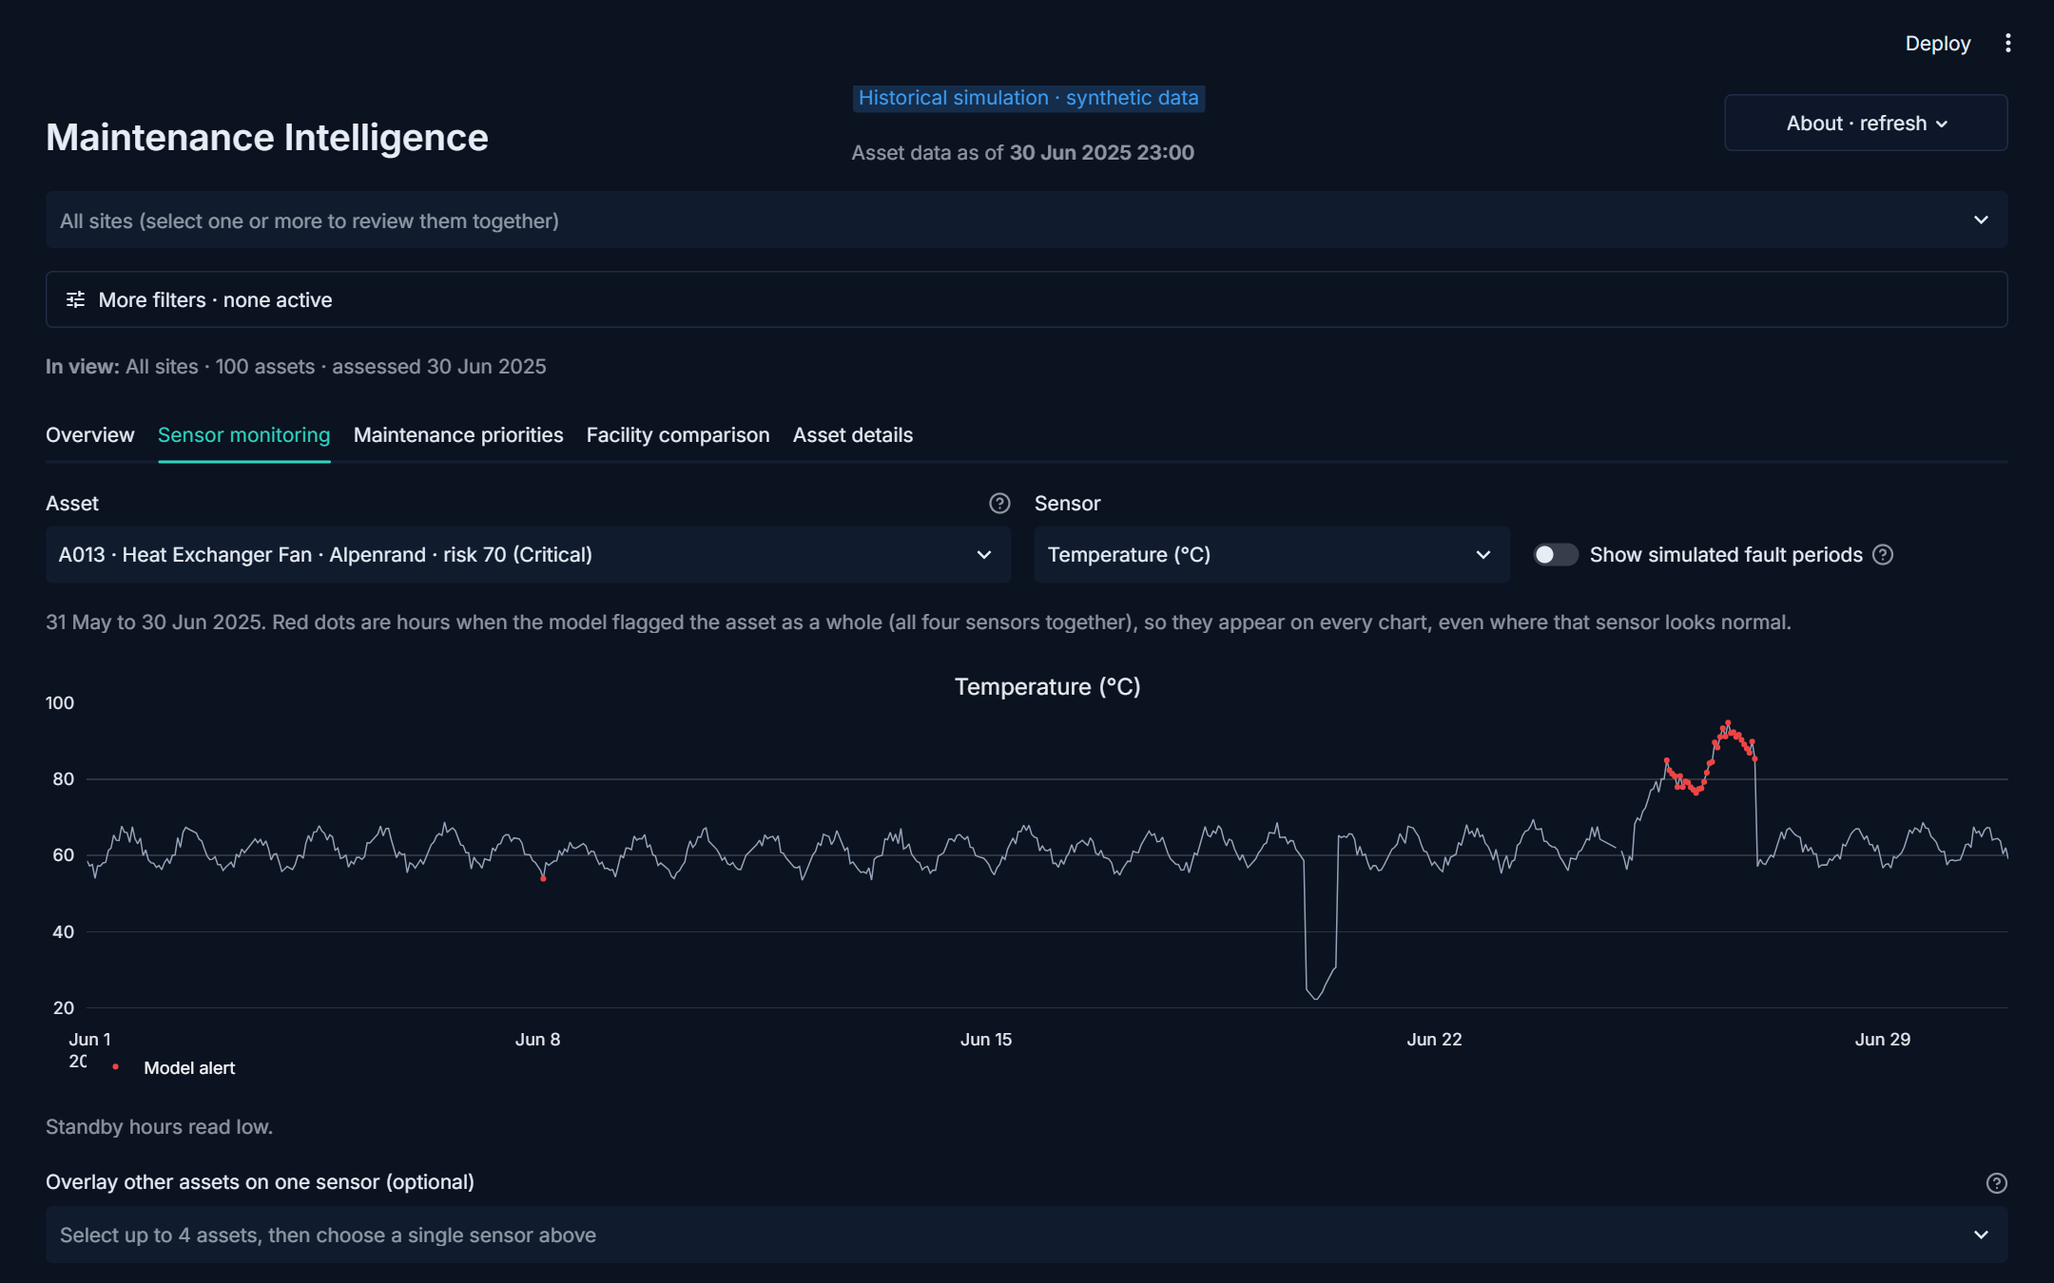
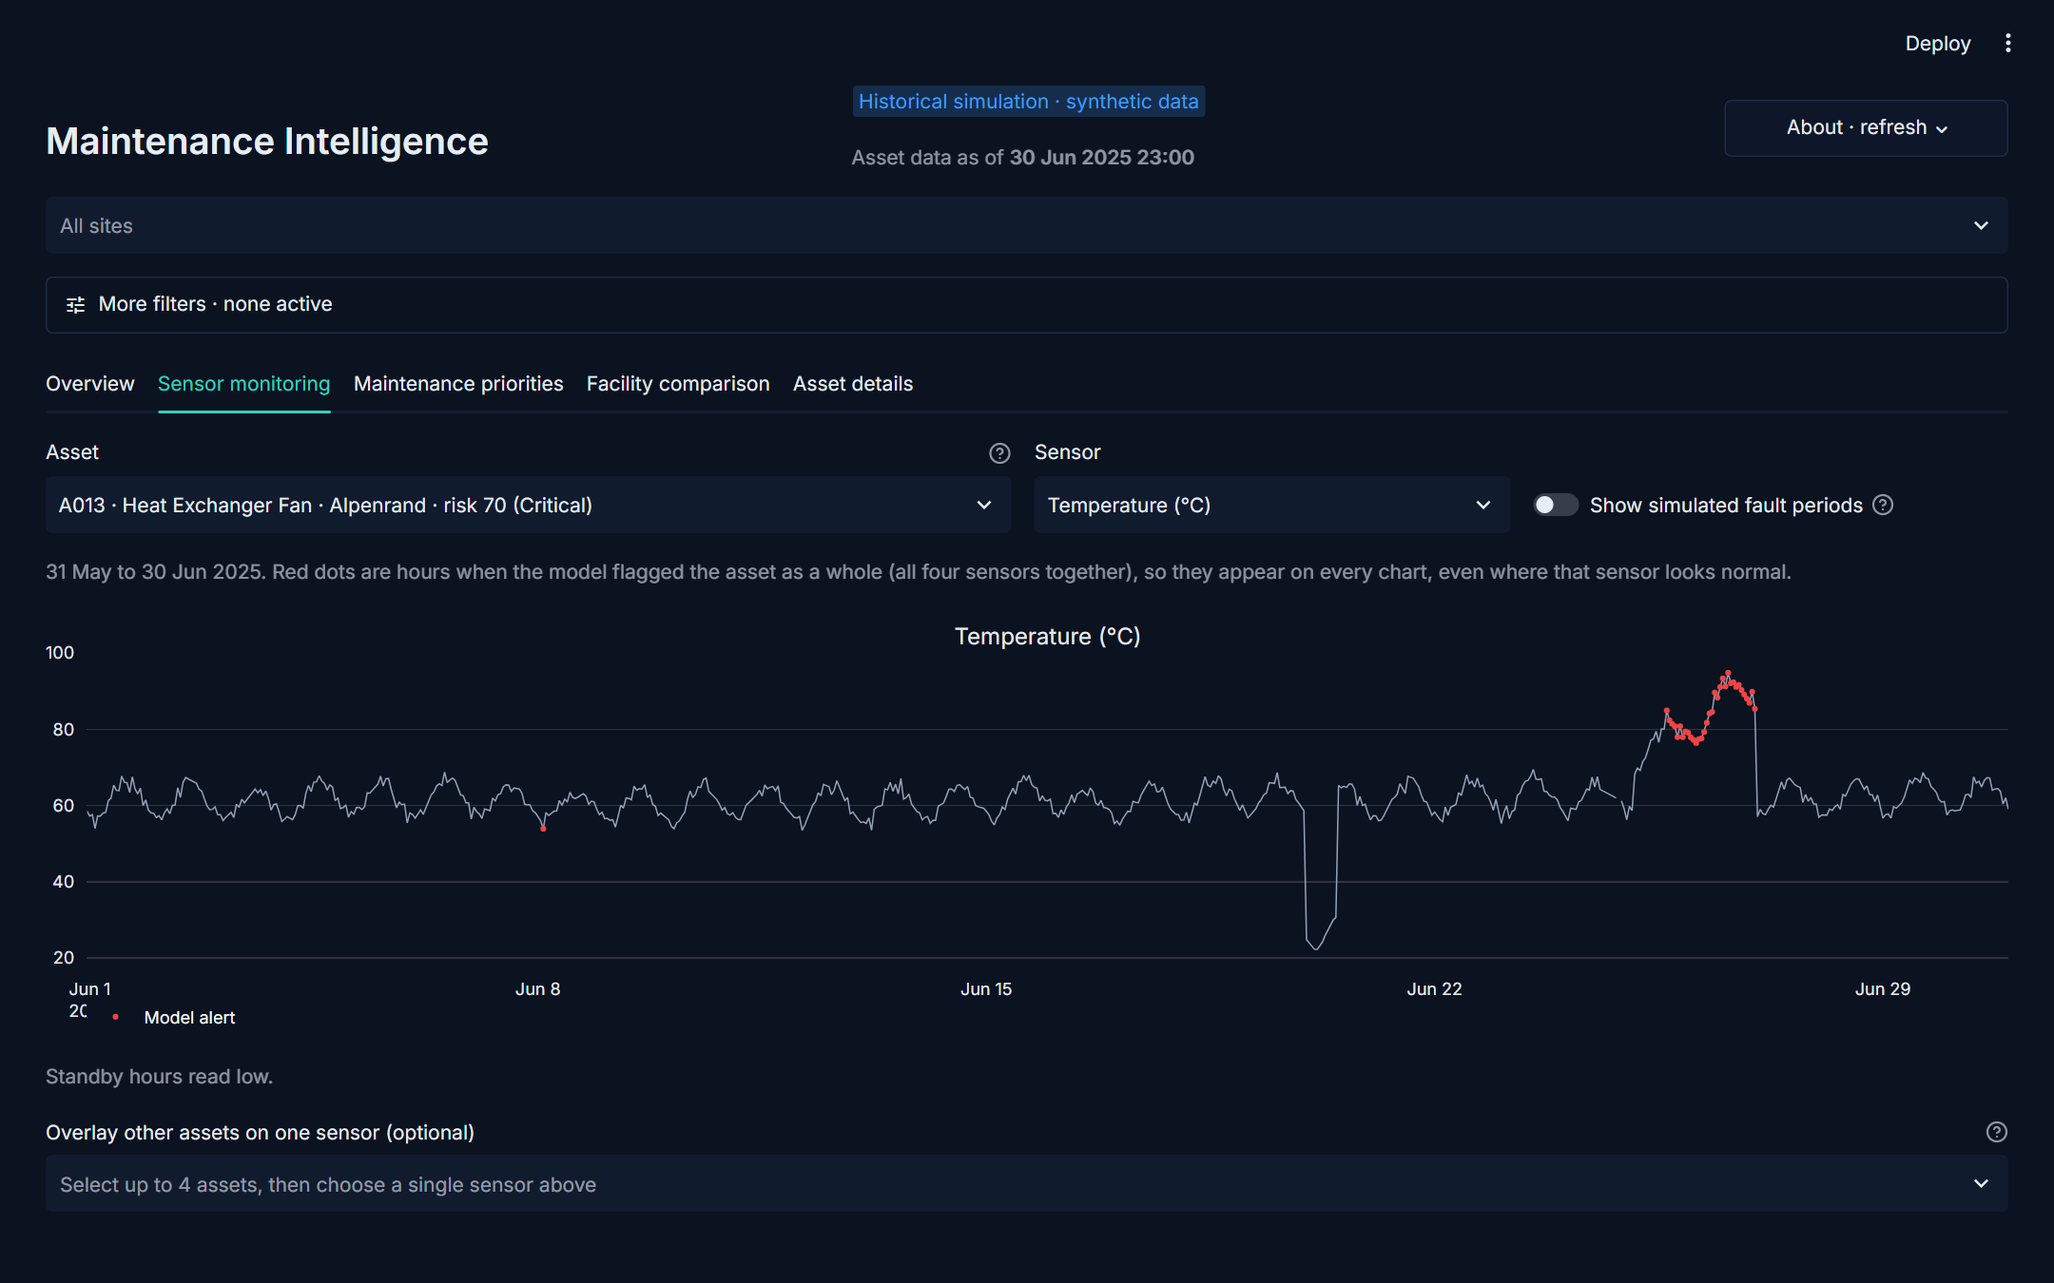
Polish pass: email on cards, condition trend first, muted charts, full screenshot gallery incl. phone

diff --git a/app.py b/app.py
@@ -12,9 +12,9 @@ from mi.data_gen import SENSORS
 from mi.weather import get_current
 
 st.set_page_config("Maintenance Intelligence", ":material/monitoring:", layout="wide", initial_sidebar_state="collapsed")
-st.markdown("<style>.block-container { padding: 2.4rem 2rem 2rem; max-width: 1600px; } .st-key-top1 { border-left: 3px solid #ef4444; } @media (max-width: 768px) { .block-container { padding: 2.2rem .75rem 2rem; } }</style>", unsafe_allow_html=True)  # no native setting for page padding
+st.markdown("<style>.block-container { padding: 2.6rem 2rem 2rem; max-width: 1600px; } .st-key-top1 { border-left: 3px solid #ef4444; } @media (max-width: 768px) { .block-container { padding: 2.2rem .75rem 2rem; } }</style>", unsafe_allow_html=True)  # no native setting for page padding
 pio.templates["mi"] = pio.templates["plotly_dark"]
-pio.templates["mi"].layout.update(paper_bgcolor="rgba(0,0,0,0)", plot_bgcolor="rgba(0,0,0,0)", font_family="Inter",
+pio.templates["mi"].layout.update(paper_bgcolor="rgba(0,0,0,0)", plot_bgcolor="rgba(0,0,0,0)", font_family="Inter", font_size=12,
                                   margin=dict(l=10, r=30, t=40, b=10), title_font_size=14, hovermode="x unified")
 pio.templates["mi"].layout.xaxis.update(showgrid=False)
 pio.templates["mi"].layout.yaxis.update(gridcolor="#233047", zeroline=False)
@@ -43,8 +43,9 @@ R, assets, fac = D["readings"], D["assets"], D["facilities"]
 COLORS = {"Low": "#14b8a6", "Medium": "#f59e0b", "High": "#ef4444"}  # teal / amber / red, always with a text label
 STATUS = {"Low": "Normal", "Medium": "Warning", "High": "Critical"}
 TAG = {"Low": ":green[Normal]", "Medium": ":orange[Warning]", "High": ":red[Critical]"}
+MUTED = {"Low": "#1f6f68", "Medium": "#8f6a22", "High": "#9b3b45"}  # deeper chart colours, same three bands; text on them stays light
 LO, HI = (25 - 15) / 30, (40 - 15) / 30  # Warning / Critical thresholds on the 15-45 colour range
-SCALE = [(0, COLORS["Low"]), (LO, COLORS["Low"]), (LO, COLORS["Medium"]), (HI, COLORS["Medium"]), (HI, COLORS["High"]), (1, COLORS["High"])]  # hard bands, not a blended gradient
+SCALE = [(0, MUTED["Low"]), (LO, MUTED["Low"]), (LO, MUTED["Medium"]), (HI, MUTED["Medium"]), (HI, MUTED["High"]), (1, MUTED["High"])]  # hard bands, not a blended gradient
 LAST = R.timestamp.max()
 H = 330  # standard chart height
 LBL = {"temperature_c": "Temperature (°C)", "vibration_mm_s": "Vibration (mm/s)", "pressure_bar": "Pressure (bar)", "power_kw": "Power (kW)"}
@@ -149,7 +150,7 @@ if "seeded" not in ss:
         pass
 
 # ---- Sites are always visible (empty = all sites; the line under the controls says exactly what is in view)
-fsel = st.multiselect("Sites", list(fac.name), key="fsel", label_visibility="collapsed", placeholder="All sites (select one or more to review them together)") or list(fac.name)
+fsel = st.multiselect("Sites", list(fac.name), key="fsel", label_visibility="collapsed", placeholder="All sites", help="Select one or more sites to review them together.") or list(fac.name)
 if ss.pop("stale_link", False):
     st.info("Some saved selections in this link are no longer available. The view has been updated.")
 n_active = bool(ss.get("tsel")) + (ss.get("period", "30") != "30") + (ss.get("asof", LAST.date()) != LAST.date())
@@ -194,20 +195,40 @@ def fmt_asset(x):
     return f"{x} · {_by_id.asset_type[x]} · {_by_id.facility[x].split()[0]} · risk {_by_id.risk[x]:.0f} ({_by_id.status[x]})"
 
 
-sites_txt = "All sites" if T.facility.nunique() == len(fac) else ", ".join(sorted(T.facility.unique()))
-st.caption(f"**In view:** {sites_txt} · {len(T)} assets · assessed {as_of:%d %b %Y}")
+def share(asset_id):
+    """Ready-made email for one asset: (message text, mailto URL). The link reopens the same sites, filters, window, date and asset."""
+    x = _by_id.loc[asset_id]
+    try:
+        base = st.context.url.split("?")[0]
+    except Exception:  # not available outside a browser session
+        base = ""
+    params = {"tab": "Asset details", "asset": asset_id, "date": str(day)}
+    if len(fsel) < len(fac):
+        params["site"] = fsel
+    if len(tsel) < assets.asset_type.nunique():
+        params["type"] = tsel
+    if period != 30:
+        params["period"] = str(period)
+    link = f"{base}?{urlencode(params, doseq=True)}" if base else ""
+    msg = (f"Asset: {x.asset_name} ({asset_id}), {x.facility}\n"
+           f"Severity: {x.status}, risk {x.risk:.1f}/100" + ("" if pd.isna(x.change) else f" ({x.change:+.1f} pts vs 7 days earlier)") + "\n"
+           f"Why: {x.explanation}\n"
+           f"Assessed: {as_of:%d %b %Y} (synthetic demo data)" + (f"\nOpen this view: {link}" if link else ""))
+    subject = f"{asset_id} {x.asset_type}: {x.status}, risk {x.risk:.0f}"
+    return msg, f"mailto:?subject={quote(subject)}&body={quote(msg.replace(chr(10), chr(13) + chr(10)))}"
+
+
 if ss.pop("asset_notice", False):
     st.info("The asset in this link is not in the current selection, so the highest-risk asset is shown instead.")
 tabs = st.tabs(["Overview", "Sensor monitoring", "Maintenance priorities", "Facility comparison", "Asset details"], key="tab", bind="query-params")
 
 with tabs[0]:
     st.subheader("Inspect next")
-    st.caption("Risk score is a 0 to 100 priority index for ranking inspections. It is not a probability of failure.")
     flagged = T[T.level != "Low"].head(3)  # only assets that actually need attention
     if flagged.empty:
         st.success("No assets are flagged in this view: every asset is Normal (risk 25 or less).")
     for i, (col, r) in enumerate(zip(st.columns(3), flagged.itertuples())):
-        with col.container(border=True, gap="xsmall", key="top1" if i == 0 else None):  # the highest-ranked asset gets a subtle accent edge
+        with col.container(border=True, gap="xxsmall", key="top1" if i == 0 else None):  # the highest-ranked asset gets a subtle accent edge
             top_l, top_r = st.columns([1, 2], vertical_alignment="center")
             top_l.badge(STATUS[r.level], color={"High": "red", "Medium": "orange", "Low": "green"}[r.level])
             top_r.caption(r.facility)
@@ -218,7 +239,10 @@ with tabs[0]:
             left, right = st.columns(2)
             left.markdown(f":gray[Main driver]  \n**{r.driver_label} {r.peak_z:+.1f}σ**")
             right.markdown(f":gray[Hours alerted (last 7 d)]  \n**{r.alert_share:.0%}**")
-            st.button("Investigate", key=f"go_{r.asset_id}", on_click=go, args=(r.asset_id,), icon=":material/arrow_forward:", width="stretch")
+            b_go, b_mail = st.columns([3, 2])
+            b_go.button("Investigate", key=f"go_{r.asset_id}", on_click=go, args=(r.asset_id,), icon=":material/arrow_forward:", width="stretch")
+            b_mail.link_button("Email", share(r.asset_id)[1], icon=":material/mail:", width="stretch",
+                               help="Opens your email app with a ready-made message about this asset and a link to it. Nothing is sent automatically; you choose the recipient.")
 
     for col, (lbl, val, sub, delta) in zip(st.columns(4), [
             ("Assets assessed", len(T), f"Across {T.facility.nunique()} facilities", None),
@@ -263,7 +287,7 @@ with tabs[0]:
         if nc.empty:
             st.caption("No critical or warning assets in this view.")
         else:
-            show(px.bar(nc, x="assets", y="short", color="status", orientation="h", color_discrete_map={"Critical": COLORS["High"], "Warning": COLORS["Medium"]},
+            show(px.bar(nc, x="assets", y="short", color="status", orientation="h", color_discrete_map={"Critical": MUTED["High"], "Warning": MUTED["Medium"]},
                         category_orders={"status": ["Critical", "Warning"]}, labels={"assets": "Assets", "short": "", "status": ""})
                  .update_xaxes(dtick=1).update_layout(height=H, margin=dict(l=0, r=10, t=0, b=0), legend=dict(orientation="h", y=1.08)), alt="Number of critical and warning assets per facility")
     with c3.container(border=True):
@@ -356,13 +380,13 @@ with tabs[3]:
             st.caption("No critical or warning assets in this view.")
         else:
             show(px.bar(nc, x="assets", y="facility", color="status", orientation="h", text_auto=True,
-                        color_discrete_map={"Critical": COLORS["High"], "Warning": COLORS["Medium"]}, category_orders={"status": ["Critical", "Warning"]}, labels={"assets": "Assets", "facility": "", "status": ""})
-                 .update_traces(textfont_color="#0b1220").update_xaxes(dtick=1).update_layout(height=H, margin=dict(l=0, r=10, t=0, b=0), legend=dict(orientation="h", y=1.08)), alt="Number of critical and warning assets per facility")
+                        color_discrete_map={"Critical": MUTED["High"], "Warning": MUTED["Medium"]}, category_orders={"status": ["Critical", "Warning"]}, labels={"assets": "Assets", "facility": "", "status": ""})
+                 .update_traces(textfont_color="#f1f5f9").update_xaxes(dtick=1).update_layout(height=H, margin=dict(l=0, r=10, t=0, b=0), legend=dict(orientation="h", y=1.08)), alt="Number of critical and warning assets per facility")
     with b.container(border=True):
         st.subheader("Average risk by facility and equipment type")
         pv = T.pivot_table(index="facility", columns="asset_type", values="risk", aggfunc="mean").round(1)
         show(px.imshow(pv.rename(index=lambda s: s.split()[0], columns=lambda s: s.replace(" ", "<br>", 1)), text_auto=True, color_continuous_scale=SCALE, zmin=15, zmax=45,
-                       labels={"color": "Avg risk", "x": "", "y": ""}, aspect="auto").update_traces(textfont_color="#0b1220")
+                       labels={"color": "Avg risk", "x": "", "y": ""}, aspect="auto").update_traces(textfont_color="#f1f5f9")
              .update_xaxes(side="top", tickangle=0).update_layout(height=H, coloraxis_showscale=False, margin=dict(l=0, r=0, t=40, b=0)), alt="Average risk for each facility and equipment type")
         st.caption("Cell colour = average risk of the assets in that cell: teal 25 or below, amber above 25 to 40, red above 40.")
     table(g.sort_values(["critical", "avg_risk"], ascending=False).round(2), alt="Facility summary: average risk, critical and warning assets, share of hours alerted", hide_index=True, column_config={
@@ -388,26 +412,24 @@ with tabs[4]:
         c[1].metric("Criticality", f"{row.criticality}/5")
         c[2].metric("Installed", int(row.install_year))
     st.markdown(f"**{'Why flagged' if row.level != 'Low' else 'Reading summary (not flagged)'}.** {row.explanation}.")
-    try:
-        base = st.context.url.split("?")[0]
-    except Exception:  # not available outside a browser session
-        base = ""
-    params = {"tab": "Asset details", "asset": a, "date": str(day)}  # everything needed to reopen the same view
-    if len(fsel) < len(fac):
-        params["site"] = fsel
-    if len(tsel) < assets.asset_type.nunique():
-        params["type"] = tsel
-    if period != 30:
-        params["period"] = str(period)
-    link = f"{base}?{urlencode(params, doseq=True)}" if base else ""
-    msg = (f"Asset: {row.asset_name} ({a}), {row.facility}\n"
-           f"Severity: {row.status}, risk {row.risk:.1f}/100" + ("" if pd.isna(row.change) else f" ({row.change:+.1f} pts vs 7 days earlier)") + "\n"
-           f"Why: {row.explanation}\n"
-           f"Assessed: {as_of:%d %b %Y} (synthetic demo data)" + (f"\nOpen this view: {link}" if link else ""))
+    w7 = R[(R.asset_id == a) & (R.timestamp > as_of - WEEK) & (R.timestamp <= as_of)]
+    if not w7.empty:
+        peak = w7[P.RC].apply(lambda s: s.loc[s.abs().idxmax()] if s.notna().any() else float("nan"))
+        last = w7[P.RC].iloc[-1]
+        lw, pw = last.abs().idxmax(), f"zr_{row.driver}"  # pw = the asset's main driver, the same sensor the cards and tables report
+        with st.container(border=True):  # the most important diagnostic result comes first
+            st.subheader("Condition trend")
+            if abs(last[lw]) > 3:
+                st.markdown(f":red[**Still abnormal.**] The latest reading is outside the ±3σ normal range: {DRV[lw[3:]]} {last[lw]:+.1f}σ.")
+            elif abs(peak[pw]) > 3:
+                st.markdown(f":orange[**Eased since the peak.**] The main driver, {DRV[pw[3:]]}, reached {peak[pw]:+.1f}σ in the last 7 days; the latest reading is back within the normal range ({DRV[pw[3:]]} {last[pw]:+.1f}σ).")
+            else:
+                st.markdown(f":green[**Within the normal range.**] Main driver in the last 7 days: {DRV[pw[3:]]}, peak {peak[pw]:+.1f}σ.")
+            st.caption(f"Latest = 6-hour mean ending {as_of:%d %b %Y %H:%M} (the end of the assessed period, not today). Normal range = within ±3σ of the asset's own baseline.")
+    msg, mailto = share(a)
     c_share = st.columns([1, 3])
-    c_share[0].link_button("Compose email", f"mailto:?subject={quote(f'{a} {row.asset_type}: {row.status}, risk {row.risk:.0f}')}&body={quote(msg.replace(chr(10), chr(13) + chr(10)))}", icon=":material/mail:", width="stretch",
+    c_share[0].link_button("Compose email", mailto, icon=":material/mail:", width="stretch",
                            help="Opens your email app with a ready-made message. Nothing is sent automatically, and you choose the recipient.")
-    c_share[0].caption("Opens your email app. You choose the recipient and send.")
     with c_share[1].expander("Copy the message text instead"):
         st.code(msg, language=None)
     ss["cmp"] = [x for x in ss.get("cmp", []) if x in set(T.asset_id) and x != a]
@@ -420,20 +442,7 @@ with tabs[4]:
                   "asset_id": "Asset", "asset_type": "Equipment", "facility": st.column_config.TextColumn("Facility", width="large"), "risk": st.column_config.NumberColumn("Risk score", format="%.1f"),
                   "change": st.column_config.NumberColumn("7-day change (pts)", format="%+.1f"), "status": "Severity", "driver_label": "Main driver",
                   "peak_z": st.column_config.NumberColumn("Peak deviation (σ)", format="%+.1f"), "days_since_maint": st.column_config.NumberColumn("Days since maintenance", format="%d")})
-    w7 = R[(R.asset_id == a) & (R.timestamp > as_of - WEEK) & (R.timestamp <= as_of)]
     if not w7.empty:
-        peak = w7[P.RC].apply(lambda s: s.loc[s.abs().idxmax()] if s.notna().any() else float("nan"))
-        last = w7[P.RC].iloc[-1]
-        lw, pw = last.abs().idxmax(), f"zr_{row.driver}"  # pw = the asset's main driver, the same sensor the cards and tables report
-        with st.container(border=True):
-            st.subheader("Condition trend")
-            if abs(last[lw]) > 3:
-                st.markdown(f":red[**Still abnormal.**] The latest reading is outside the ±3σ normal range: {DRV[lw[3:]]} {last[lw]:+.1f}σ.")
-            elif abs(peak[pw]) > 3:
-                st.markdown(f":orange[**Eased since the peak.**] The main driver, {DRV[pw[3:]]}, reached {peak[pw]:+.1f}σ in the last 7 days; the latest reading is back within the normal range ({DRV[pw[3:]]} {last[pw]:+.1f}σ).")
-            else:
-                st.markdown(f":green[**Within the normal range.**] Main driver in the last 7 days: {DRV[pw[3:]]}, peak {peak[pw]:+.1f}σ.")
-            st.caption(f"Latest = 6-hour mean ending {as_of:%d %b %Y %H:%M} (the end of the assessed period, not today). Normal range = within ±3σ of the asset's own baseline.")
         z = pd.DataFrame({"Sensor": [DRV[c[3:]] for c in P.RC] * 2, "Deviation (σ)": list(peak) + list(last),
                           "Reading": ["Peak, last 7 days"] * 4 + [f"Latest (6 h mean to {as_of:%d %b %H:%M})"] * 4})
         show(px.bar(z, x="Deviation (σ)", y="Sensor", color="Reading", orientation="h", barmode="group",

diff --git a/README.md b/README.md
@@ -37,6 +37,19 @@ Severity is always colour **and** word: **Normal** (risk 25 or less), **Warning*
 
 Same analysis, redesigned interface: a compact header, structured cards, a **Condition trend** statement, readable tables, a shared selected asset, shareable links, honest empty and error states, and a native Streamlit theme. Every change and the reason for it: **[docs/design-changes.md](docs/design-changes.md)**.
 
+## Screenshots
+
+| Asset details | Maintenance priorities |
+|---|---|
+| ![Asset details](docs/screenshots/v2-asset-details.png) | ![Maintenance priorities](docs/screenshots/v2-maintenance-priorities.png) |
+| **Sensor monitoring** | **Facility comparison** |
+| ![Sensor monitoring](docs/screenshots/v2-sensor-monitoring.png) | ![Facility comparison](docs/screenshots/v2-facility-comparison.png) |
+
+**On a phone (390 px wide)**
+
+| Overview | Asset details |
+|---|---|
+| <img src="docs/screenshots/v2-phone-overview.png" width="260" alt="Overview on a phone"> | <img src="docs/screenshots/v2-phone-asset-details.png" width="260" alt="Asset details on a phone"> |
 ## Walkthrough: one investigation in about 90 seconds
 
 1. **Overview:** the header says the data is a *historical simulation*. *Inspect next* shows the three assets that need attention.

diff --git a/docs/design-changes.md b/docs/design-changes.md
@@ -50,3 +50,13 @@ Screenshots: [`screenshots/`](screenshots) (`v1-*` and `v2-*`).
 | Blended red-to-teal gradients | Three fixed bands (Normal, Warning, Critical) used by every chart and table |
 | Charts and tables without text descriptions | Every chart and table has an accessible description; sentence-case labels |
 | Header badges wrapping on phones | Compact layout; tested on a 390 px phone width |
+
+## Side by side
+
+| Version 1 | Version 2 |
+|---|---|
+| ![v1 overview](screenshots/v1-overview.png) | ![v2 overview](screenshots/v2-overview.png) |
+| ![v1 maintenance priorities](screenshots/v1-maintenance-priorities.png) | ![v2 maintenance priorities](screenshots/v2-maintenance-priorities.png) |
+| ![v1 asset details](screenshots/v1-asset-details.png) | ![v2 asset details](screenshots/v2-asset-details.png) |
+| ![v1 sensor monitoring](screenshots/v1-sensor-monitoring.png) | ![v2 sensor monitoring](screenshots/v2-sensor-monitoring.png) |
+| ![v1 facility comparison](screenshots/v1-facility-comparison.png) | ![v2 facility comparison](screenshots/v2-facility-comparison.png) |
